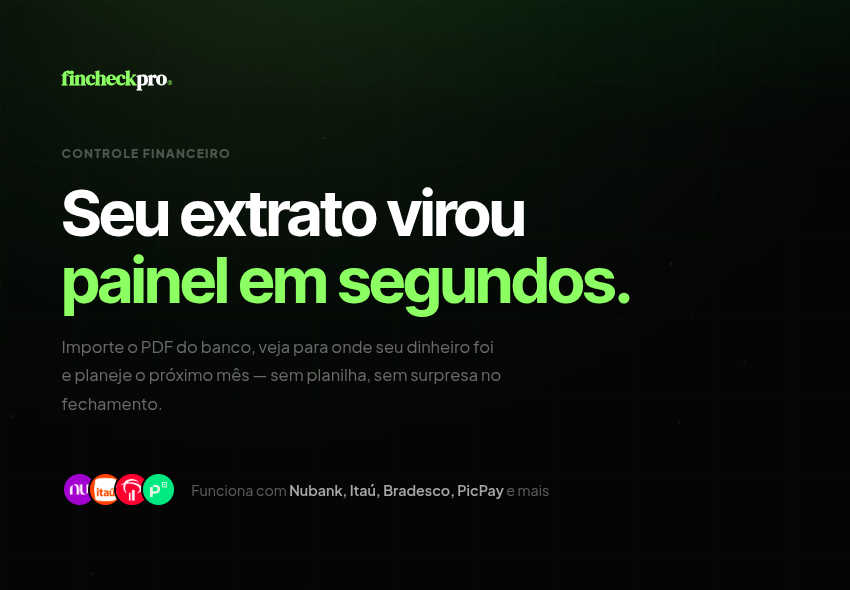
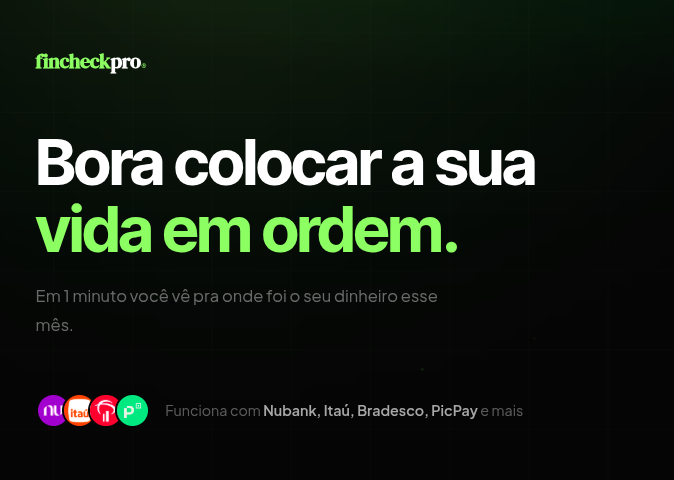
Fix onboarding invite flow, update WA message copy, and refresh OG image
- Await WA fetch before navigating (was fire-and-forget, browser aborted on redirect)
- Replace silent workspaceId guard with createWorkspace() fallback
- Show error on WA failure instead of redirecting silently
- Update WhatsApp invite message to new copy (friendlier tone)
- Replace og.png with updated preview image

diff --git a/src/app/onboarding/page.tsx b/src/app/onboarding/page.tsx
@@ -201,11 +201,10 @@ function OnboardingFlow({ user }: { user: User }) {
   }
 
   async function handleSendInvite() {
-    const wsId = workspaceId;
-    if (!wsId) return;
     setBusy(true);
     setError("");
     try {
+      const wsId = workspaceId || await createWorkspace();
       const displayName = name.trim() || user.displayName || user.email?.split("@")[0] || "Você";
       const token = crypto.randomUUID();
       const invDigits = invitePhone.replace(/\D/g, "");
@@ -222,11 +221,16 @@ function OnboardingFlow({ user }: { user: User }) {
         expiresAt: Timestamp.fromDate(new Date(Date.now() + 7 * 24 * 60 * 60 * 1000))
       });
       const link = `${window.location.origin}${BASE}/convite?token=${token}`;
-      fetch(SEND_WA_FUNCTION_URL, {
+      const waResp = await fetch(SEND_WA_FUNCTION_URL, {
         method: "POST",
         headers: { "Content-Type": "application/json" },
         body: JSON.stringify({ phone: invPhone, workspaceName: "Minha vida financeira", inviteLink: link, fromName: displayName })
-      }).catch(console.error);
+      }).catch(() => null);
+      if (!waResp?.ok) {
+        setError("Não foi possível enviar o convite. Tente de novo.");
+        setBusy(false);
+        return;
+      }
       await goHome(wsId);
     } catch (err) {
       setError(err instanceof Error ? err.message : "Algo deu errado. Tente de novo.");

diff --git a/functions/src/index.ts b/functions/src/index.ts
@@ -288,7 +288,7 @@ export const sendInviteWhatsApp = onRequest(
     if (!apiKey) { res.status(500).json({ error: "EVOLUTION_API_KEY not configured" }); return; }
 
     const sender = fromName || "Alguém";
-    const message = `${sender} te adicionou no painel financeiro dele no Fincheck Pro. 💚\nAgora vocês acompanham tudo juntos — entradas, gastos e o planejamento do mês em tempo real.\n👉 ${inviteLink}`;
+    const message = `${sender} te chamou pro Fincheck Pro 👊\n\nVocês vão acompanhar entradas, gastos e o plano do mês juntos — em tempo real, sem ninguém ter que ficar perguntando "ué, gastou onde isso?".\n\nBora entrar?\n${inviteLink}`;
 
     try {
       const resp = await fetch(`${EVOLUTION_URL}/message/sendText/${EVOLUTION_INSTANCE}`, {